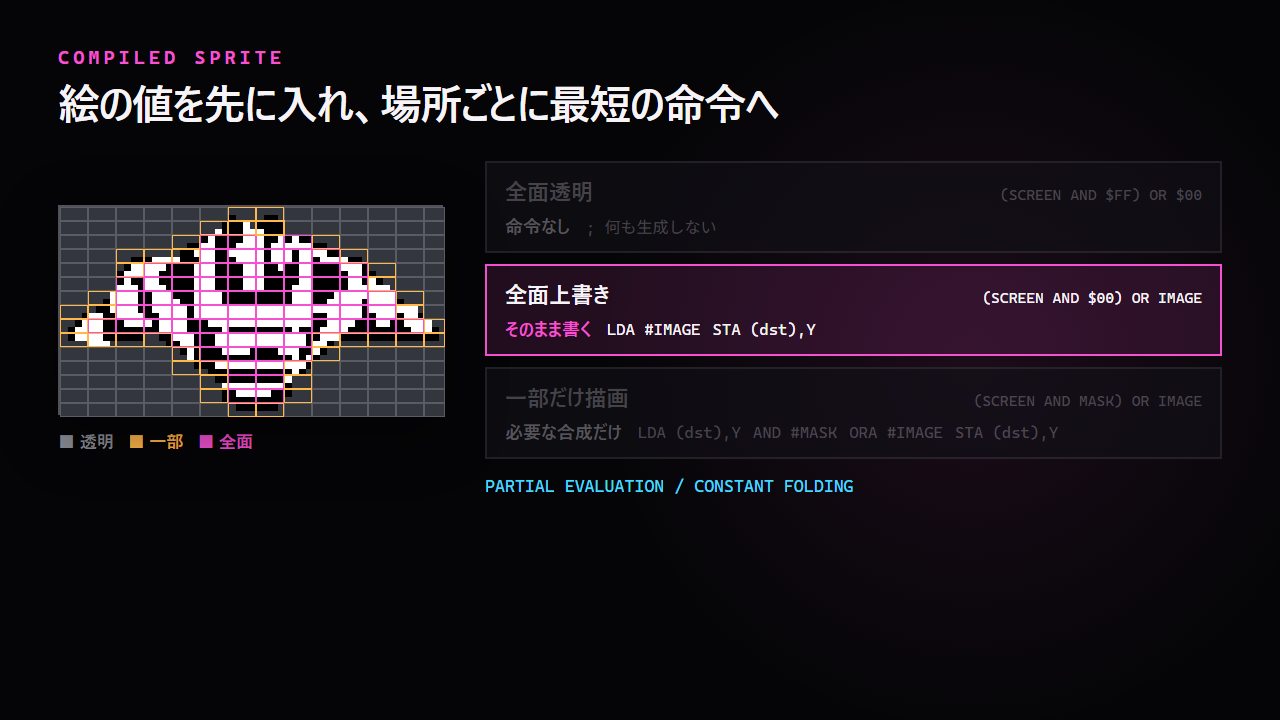
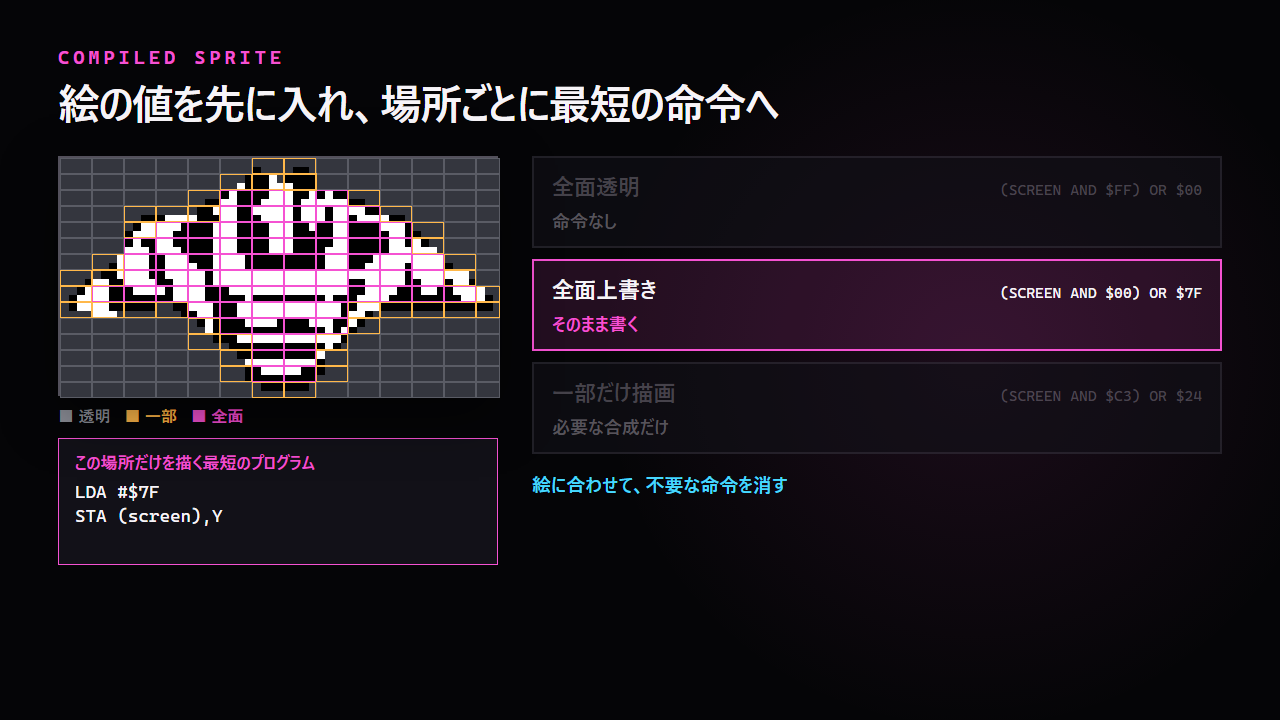
codex: 描画コード例と拡大図を追加

diff --git a/GPT/video/explainer_prototype/src/ExplainerPrototype.tsx b/GPT/video/explainer_prototype/src/ExplainerPrototype.tsx
@@ -341,6 +341,16 @@ const GenericLoopScene: React.FC = () => {
   const category = enemyCoverage[cursor] ?? 0;
   const kinds = ['全面透明', '一部だけ描画', '全面上書き'];
   const steps = ['画像とマスクを読む', '画面の元の値を読む', '背景を残す（AND）', '絵を重ねる（OR）', '同じ場所へ書き戻す'];
+  const genericCode = [
+    'loop:',
+    '  LDA (screen),Y',
+    '  AND (mask),Y',
+    '  ORA (image),Y',
+    '  STA (screen),Y',
+    '  INY',
+    '  CPY #BYTES',
+    '  BNE loop',
+  ];
   const active = Math.floor(frame / 8) % steps.length;
   return (
     <AbsoluteFill
@@ -354,12 +364,29 @@ const GenericLoopScene: React.FC = () => {
       <Eyebrow color={C.cyan}>一般的なソフトウェア描画</Eyebrow>
       <div style={{height: 10}} />
       <Title size={41}>すべての4×2ドットに、同じ合成処理を実行</Title>
-      <div style={{display: 'flex', alignItems: 'center', gap: 58, marginTop: 34}}>
-        <div>
-          <PackedEnemy scale={7} processedCount={done} cursor={cursor} />
-          <div style={{display: 'flex', justifyContent: 'space-between', marginTop: 14, fontFamily: MONO}}>
+      <div style={{display: 'flex', alignItems: 'flex-start', gap: 34, marginTop: 27}}>
+        <div style={{width: 440, flexShrink: 0}}>
+          <PackedEnemy scale={8} processedCount={done} cursor={cursor} />
+          <div style={{display: 'flex', justifyContent: 'space-between', marginTop: 9, fontFamily: MONO}}>
             <span style={{color: C.dim, fontSize: 17}}>1 BYTE = 4 × 2 DOTS</span>
             <span style={{color: C.cyan, fontSize: 17}}>{String(done).padStart(3, '0')} / 210</span>
+          </div>
+          <div
+            style={{
+              marginTop: 12,
+              padding: '12px 16px 13px',
+              background: C.panel,
+              border: '1px solid #3b3842',
+            }}
+          >
+            <div style={{fontFamily: FONT, color: C.cyan, fontWeight: 900, fontSize: 17, marginBottom: 7}}>
+              データを読みながら描くプログラム
+            </div>
+            {genericCode.map((line) => (
+              <div key={line} style={{fontFamily: MONO, color: C.white, fontSize: 16, lineHeight: 1.22}}>
+                {line}
+              </div>
+            ))}
           </div>
         </div>
         <div style={{flex: 1}}>
@@ -417,10 +444,11 @@ const CompiledScene: React.FC = () => {
   const frame = useCurrentFrame();
   const active = Math.floor(frame / 105) % 3;
   const cards = [
-    {title: '全面透明', equation: '(SCREEN AND $FF) OR $00', result: '命令なし', code: ['; 何も生成しない']},
-    {title: '全面上書き', equation: '(SCREEN AND $00) OR IMAGE', result: 'そのまま書く', code: ['LDA #IMAGE', 'STA (dst),Y']},
-    {title: '一部だけ描画', equation: '(SCREEN AND MASK) OR IMAGE', result: '必要な合成だけ', code: ['LDA (dst),Y', 'AND #MASK', 'ORA #IMAGE', 'STA (dst),Y']},
+    {title: '全面透明', equation: '(SCREEN AND $FF) OR $00', result: '命令なし', code: ['; 命令なし']},
+    {title: '全面上書き', equation: '(SCREEN AND $00) OR $7F', result: 'そのまま書く', code: ['LDA #$7F', 'STA (screen),Y']},
+    {title: '一部だけ描画', equation: '(SCREEN AND $C3) OR $24', result: '必要な合成だけ', code: ['LDA (screen),Y', 'AND #$C3', 'ORA #$24', 'STA (screen),Y']},
   ];
+  const activeCard = cards[active];
   return (
     <AbsoluteFill
       style={{
@@ -433,13 +461,32 @@ const CompiledScene: React.FC = () => {
       <Eyebrow>COMPILED SPRITE</Eyebrow>
       <div style={{height: 10}} />
       <Title size={42}>絵の値を先に入れ、場所ごとに最短の命令へ</Title>
-      <div style={{display: 'flex', gap: 42, alignItems: 'center', marginTop: 32}}>
-        <div>
-          <PackedEnemy scale={7} showAll analyze cursor={sampleBlocks[active]} />
-          <div style={{display: 'flex', gap: 14, marginTop: 15, fontFamily: FONT, fontSize: 17, fontWeight: 800}}>
+      <div style={{display: 'flex', gap: 34, alignItems: 'flex-start', marginTop: 27}}>
+        <div style={{width: 440, flexShrink: 0}}>
+          <PackedEnemy scale={8} showAll analyze cursor={sampleBlocks[active]} />
+          <div style={{display: 'flex', gap: 14, marginTop: 9, fontFamily: FONT, fontSize: 16, fontWeight: 800}}>
             <span style={{color: '#8b8d96'}}>■ 透明</span>
             <span style={{color: C.orange}}>■ 一部</span>
             <span style={{color: C.magenta}}>■ 全面</span>
+          </div>
+          <div
+            style={{
+              marginTop: 12,
+              minHeight: 127,
+              padding: '12px 16px 13px',
+              boxSizing: 'border-box',
+              background: C.panel,
+              border: `1px solid ${C.magenta}`,
+            }}
+          >
+            <div style={{fontFamily: FONT, color: C.magenta, fontWeight: 900, fontSize: 17, marginBottom: 7}}>
+              この場所だけを描く最短のプログラム
+            </div>
+            {activeCard.code.map((line) => (
+              <div key={line} style={{fontFamily: MONO, color: C.white, fontSize: 18, lineHeight: 1.3}}>
+                {line}
+              </div>
+            ))}
           </div>
         </div>
         <div style={{flex: 1}}>
@@ -465,15 +512,12 @@ const CompiledScene: React.FC = () => {
                   <span style={{fontFamily: FONT, fontSize: 18, fontWeight: 800, color: lit ? C.magenta : C.dim}}>
                     {card.result}
                   </span>
-                  <div style={{display: 'flex', gap: 12, fontFamily: MONO, fontSize: 16}}>
-                    {card.code.map((line) => <span key={line}>{line}</span>)}
-                  </div>
                 </div>
               </div>
             );
           })}
-          <div style={{fontFamily: MONO, color: C.cyan, fontSize: 17, marginTop: 17}}>
-            PARTIAL EVALUATION / CONSTANT FOLDING
+          <div style={{fontFamily: FONT, color: C.cyan, fontWeight: 900, fontSize: 19, marginTop: 17}}>
+            絵に合わせて、不要な命令を消す
           </div>
         </div>
       </div>
